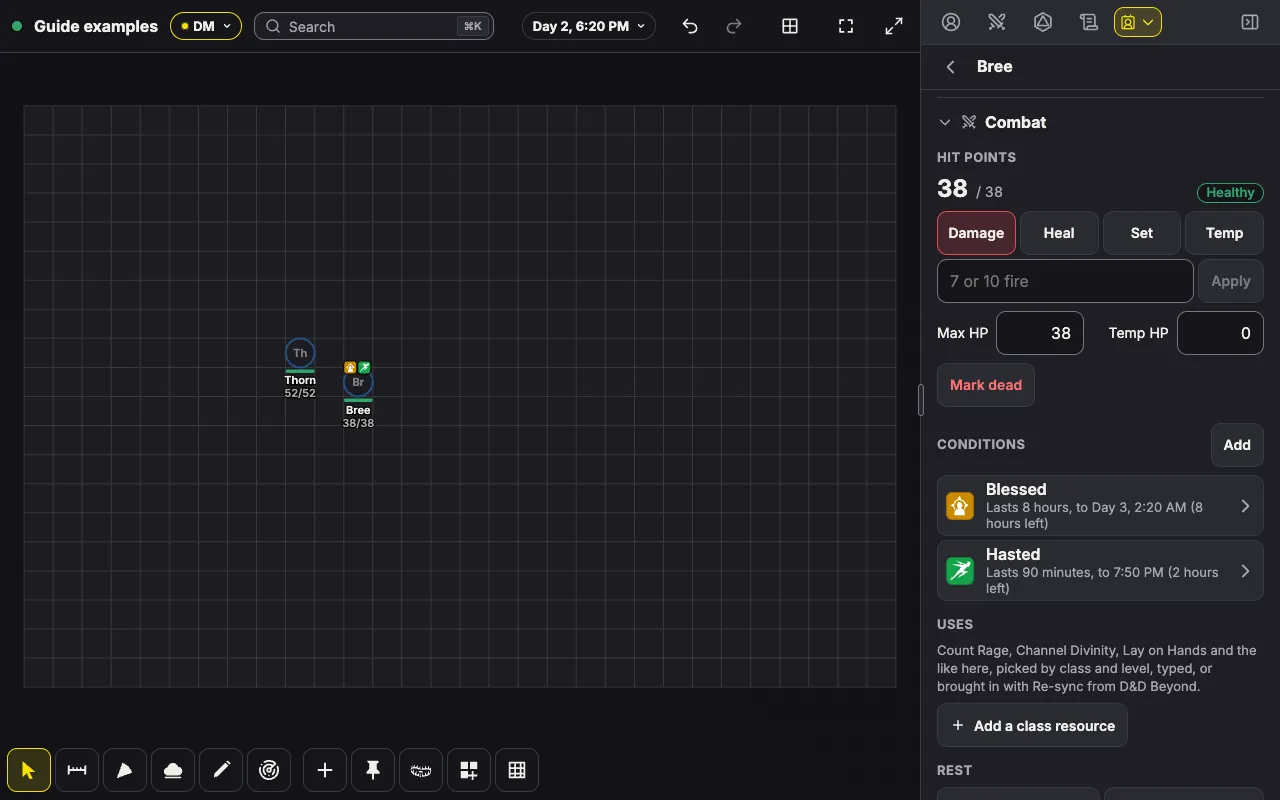
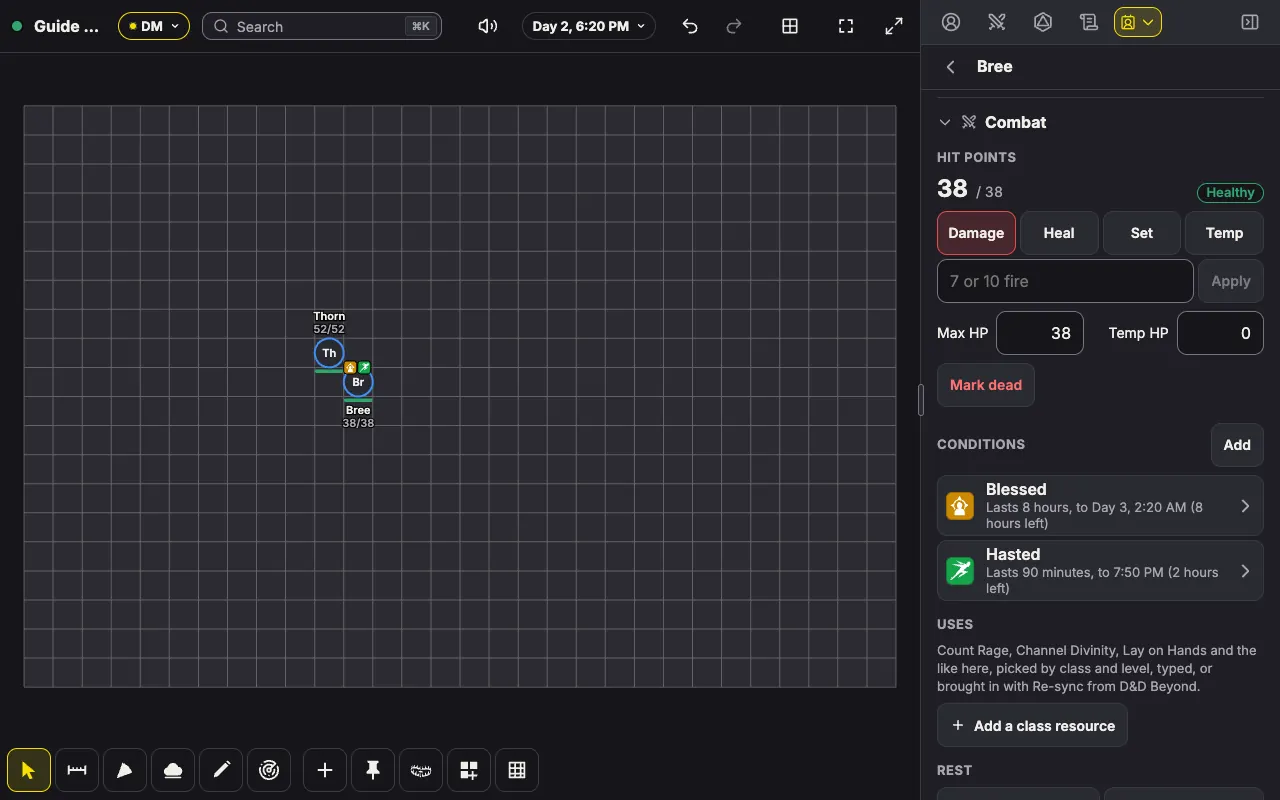
docs(guide): take the timed effect, time of day light and dawn and dusk pictures from a script

diff --git a/scripts/guide-timed.ts b/scripts/guide-timed.ts
@@ -1,0 +1,155 @@
+/**
+ * The DM guide's pictures of time in the scene (docs/dm-guide.md, "Time and
+ * the calendar", "Timed effects" and Light), taken from the real server on
+ * the production build so they always show the app as it is:
+ *
+ * - effect-time-span.webp: Bree's Blessed and Hasted with the times they end,
+ * - light-time-of-day.webp: the scene's Light on Time of day, and
+ * - time-dawn-dusk.webp: the Time panel's Dawn and dusk open to change.
+ *
+ * The clock reads Day 2, 6:20 PM on days with no calendar, with dawn at 5:30 AM and dusk at 6:00 PM. Bree is Blessed
+ * for 8 hours and Hasted for 90 minutes, and dusk is at 6:00 PM, so the light
+ * reads Dim.
+ *
+ * It needs `pnpm build` first and a Postgres in DATABASE_URL. It makes a room,
+ * writes the pictures to docs/dm-guide/ at 1280 x 800, as the guide's other
+ * pictures are, and deletes the room:
+ *
+ *   DATABASE_URL=postgres://... GUIDE_PORT=3197 node scripts/guide-timed.ts
+ */
+import { uuidv7 as randomUUID } from "../shared/ids.ts";
+import { mkdtempSync, rmSync } from "node:fs";
+import { tmpdir } from "node:os";
+import path from "node:path";
+import { chromium, type Locator, type Page } from "playwright-core";
+import sharp from "sharp";
+import { openSideTab, OpSocket, ROOT, sideTabName, SocketWatch, startServer, waitFor } from "../e2e/harness.ts";
+
+const PORT = Number(process.env.GUIDE_PORT ?? 3197);
+const DATABASE_URL = process.env.DATABASE_URL ?? "postgres://raccoon:raccoon@localhost:5434/raccoon";
+const OUT = path.join(ROOT, "docs", "dm-guide");
+const WINDOW = { width: 1280, height: 800 };
+const HOUR = 3_600;
+/** Day 2, 6:20 PM, on a clock of days. */
+const START = 86_400 + 18 * HOUR + 20 * 60;
+
+function actor(hp: number) {
+  return { hp: { cur: hp, max: hp, temp: 0 }, life: "alive", ac: 15, speeds: { walk: 30 }, initBonus: 0, passivePerception: 12, senses: "", effects: [], deathSaves: { ok: 0, fail: 0 }, notes: "", dmNotes: "" };
+}
+
+/** The page as the guide shows it, at the quality its other pictures use. */
+async function picture(page: Page, name: string): Promise<void> {
+  // A notice such as "Saved. Undo in Setup history." is gone before the picture, which shows the page.
+  await page.locator("[data-toast]").first().waitFor({ state: "hidden", timeout: 20_000 }).catch(() => undefined);
+  await page.waitForTimeout(1000);
+  const png = await page.screenshot();
+  const info = await sharp(png).webp({ quality: 78, effort: 6 }).toFile(path.join(OUT, `${name}.webp`));
+  console.log(`${name}.webp ${info.width} x ${info.height}, ${Math.round(info.size / 1024)} KB`);
+}
+
+/** Puts `target` at the top of the side panel's scroll, and the page itself back at the top. */
+async function scrollToTop(target: Locator): Promise<void> {
+  await target.evaluate((el) => {
+    const box = (el as unknown as { closest(s: string): { scrollTop: number; getBoundingClientRect(): { top: number } } | null }).closest('[role="tabpanel"]');
+    let scroller = box as unknown as { scrollTop: number; scrollHeight: number; clientHeight: number; parentElement: unknown; getBoundingClientRect(): { top: number } } | null;
+    while (scroller && !(scroller.scrollHeight > scroller.clientHeight + 5)) scroller = scroller.parentElement as typeof scroller;
+    if (scroller) scroller.scrollTop += (el as unknown as { getBoundingClientRect(): { top: number } }).getBoundingClientRect().top - scroller.getBoundingClientRect().top - 8;
+  });
+}
+
+const work = mkdtempSync(path.join(tmpdir(), "raccoon-guide-timed-"));
+const server = await startServer({ port: PORT, assetDir: path.join(work, "assets"), databaseUrl: DATABASE_URL });
+const browser = await chromium.launch({ channel: "chrome", headless: true });
+const roomName = "Guide examples";
+let roomId = "";
+let ops: OpSocket | null = null;
+const dmContext = await browser.newContext({ viewport: WINDOW });
+try {
+  const origin = server.origin;
+  const dm = await dmContext.newPage();
+  const dmSocket = new SocketWatch("dm");
+  await dmSocket.attach(dmContext, dm);
+  await dm.goto(`${origin}/`);
+  await dm.getByLabel("Room name").fill(roomName);
+  await dm.getByLabel("Your name").fill("Dana the DM");
+  await dm.getByRole("button", { name: "Create room" }).click();
+  await dm.getByRole("heading", { name: "Save your DM link" }).waitFor();
+  const link = (await dm.locator("code").first().textContent()) ?? "";
+  roomId = /\/r\/([0-9A-Z]{4}-[0-9A-Z]{4})#dm=/.exec(link)![1]!.replace("-", "");
+  await dm.getByLabel("I saved my DM link").check();
+  await dm.getByRole("button", { name: "Continue to the room" }).click();
+  await waitFor("the DM's snapshot", () => dmSocket.state);
+  const sceneId = dmSocket.state!.meta.playerSceneId!;
+  const cookie = (await dmContext.cookies(origin)).map((c) => `${c.name}=${c.value}`).join("; ");
+  ops = await OpSocket.open({ origin, roomId, cookie });
+
+  const thorn = randomUUID();
+  const bree = randomUUID();
+  await ops.send({ t: "character.create", character: { id: thorn, name: "Thorn", size: "medium", ownerIds: [], actor: actor(52) } });
+  await ops.send({ t: "character.create", character: { id: bree, name: "Bree", size: "medium", ownerIds: [], actor: actor(38) } });
+  const token = (id: string, characterId: string, name: string, x: number, y: number) => ({
+    t: "token.create",
+    token: { id, sceneId, kind: "pc", name, size: "medium", x, y, visibility: "all", disposition: "ally", ownerIds: [], actor: { ref: characterId } },
+  });
+  await ops.send(token(randomUUID(), thorn, "Thorn", 10, 8));
+  await ops.send(token(randomUUID(), bree, "Bree", 11, 9));
+  await ops.send({ t: "clock.start", id: randomUUID(), at: START, shown: true, calendar: { kind: "days" } });
+  // Dawn at 5:30 AM and dusk at 6:00 PM.
+  await ops.send({ t: "clock.update", daylight: { dawn: 5.5 * HOUR, dusk: 18 * HOUR } });
+  await dm.reload();
+  await dm.locator(".konvajs-content").first().waitFor();
+
+  // Bree's Blessed for 8 hours and Hasted for 90 minutes, added as a DM adds them.
+  await openSideTab(dm, "Characters");
+  const characters = dm.getByRole("tabpanel", { name: sideTabName("Characters") });
+  await characters.locator(`[data-opener="character:${bree}"]`).click();
+  const combat = characters.getByRole("button", { name: "Combat", exact: true });
+  if ((await combat.getAttribute("aria-expanded")) === "false") await combat.click();
+  const conditions = characters.locator('xpath=.//section[*[self::h3 or self::h4][normalize-space()="Conditions"] or *[not(self::section)]/*[self::h3 or self::h4][normalize-space()="Conditions"]]');
+  const add = async (label: RegExp, length: (section: Locator) => Promise<void>) => {
+    await conditions.getByRole("button", { name: "Add", exact: true }).click();
+    await conditions.getByRole("button", { name: label }).first().click();
+    await length(conditions);
+    await conditions.getByRole("button", { name: "Add", exact: true }).click();
+    await conditions.getByRole("button", { name: "Back", exact: true }).waitFor({ state: "detached" });
+  };
+  await add(/Blessed/, async (s) => void (await s.getByRole("combobox", { name: "Duration", exact: true }).selectOption({ label: "8 hours" })));
+  await add(/Hasted/, async (s) => {
+    await s.getByRole("combobox", { name: "Duration", exact: true }).selectOption({ label: "Other length of time" });
+    await s.getByRole("textbox", { name: "Length", exact: true }).fill("90");
+    await s.getByRole("combobox", { name: "Unit", exact: false }).or(s.getByRole("combobox").last()).last().selectOption({ label: "Minutes" });
+  });
+  await conditions.getByText(/^Lasts 90 minutes, to 7:50 PM/).waitFor();
+  await dm.mouse.move(5, 790);
+  await picture(dm, "effect-time-span");
+
+  // The scene's Light on Time of day.
+  const scenes = dm.getByRole("tabpanel", { name: sideTabName("Scenes") });
+  await openSideTab(dm, "Scenes");
+  // Light works with party vision, which Explore turns on.
+  await scenes.getByRole("radio", { name: /^Explore/ }).first().click();
+  const fold = scenes.locator("button[aria-expanded]").filter({ hasText: /^Light and weather/ }).first();
+  if ((await fold.getAttribute("aria-expanded")) !== "true") await fold.click();
+  await scenes.getByRole("radio", { name: "Time of day", exact: true }).or(scenes.getByRole("button", { name: "Time of day", exact: true })).first().click();
+  await scenes.getByText(/It is Dim now/).waitFor();
+  await scrollToTop(fold);
+  await dm.mouse.move(5, 790);
+  await picture(dm, "light-time-of-day");
+
+  // The Time panel's Dawn and dusk, open to change with Dawn in focus.
+  await openSideTab(dm, "Time");
+  const time = dm.getByRole("tabpanel", { name: sideTabName("Time") });
+  await time.locator("[data-clock-date]").waitFor();
+  await time.getByRole("button", { name: "Change", exact: true }).click();
+  await time.getByLabel("Dawn", { exact: true }).waitFor();
+  await scrollToTop(time.getByText("Sharing", { exact: true }).first());
+  await dm.mouse.move(5, 790);
+  await picture(dm, "time-dawn-dusk");
+  await time.getByRole("button", { name: "Cancel", exact: true }).click();
+} finally {
+  ops?.close();
+  if (roomId) await dmContext.request.delete(`${server.origin}/api/rooms/${roomId}`, { headers: { Origin: server.origin }, data: { name: roomName } }).catch(() => undefined);
+  await browser.close();
+  await server.stop();
+  rmSync(work, { recursive: true, force: true });
+}
